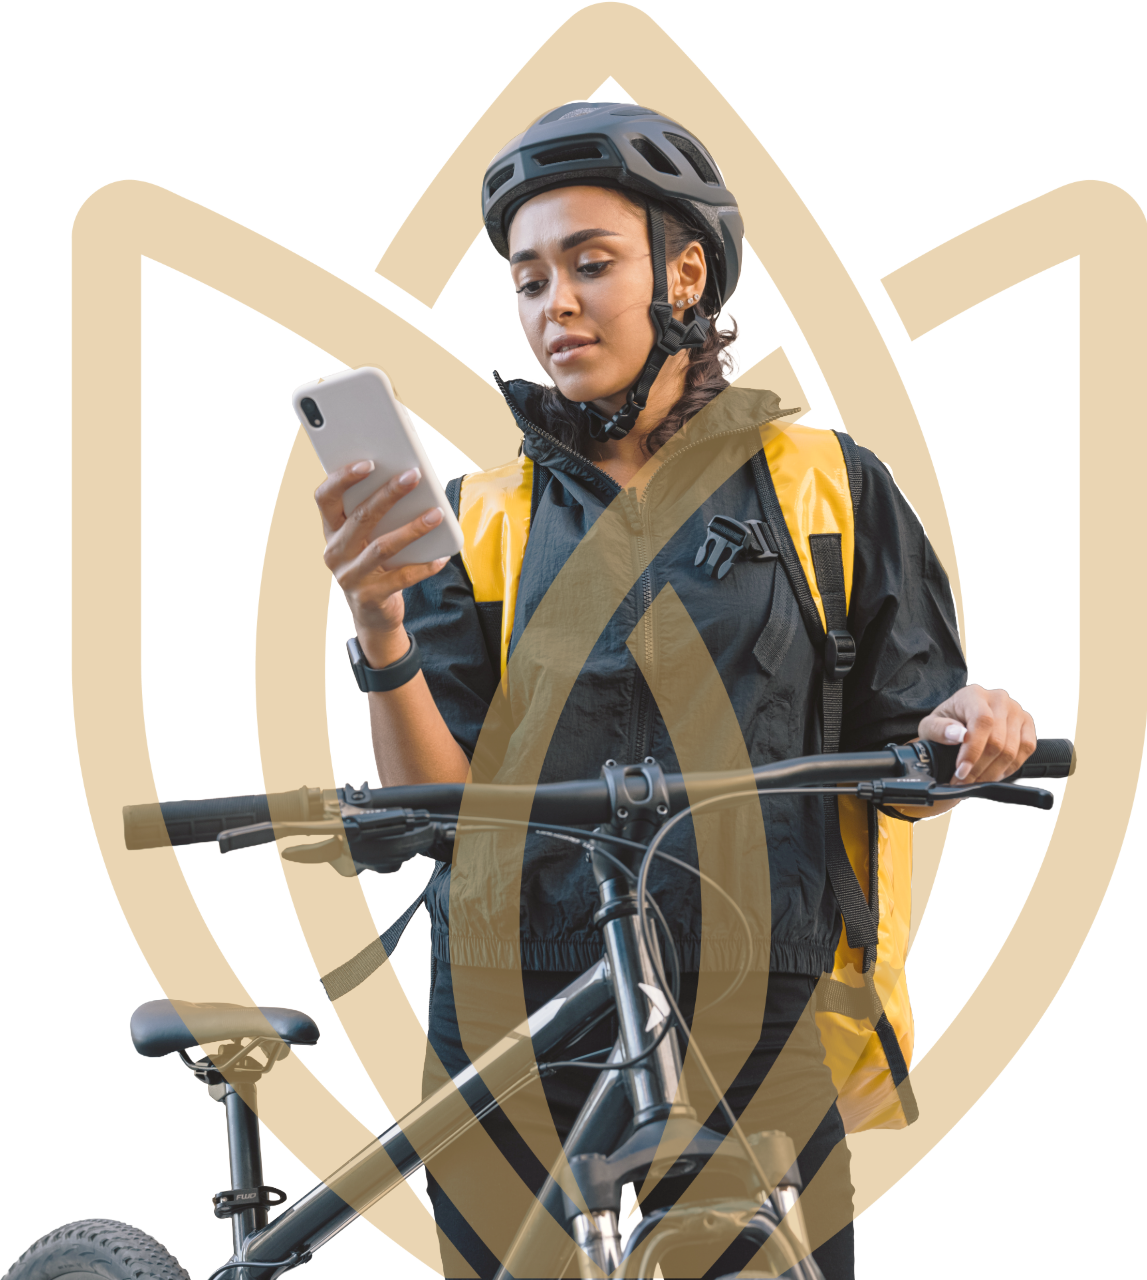
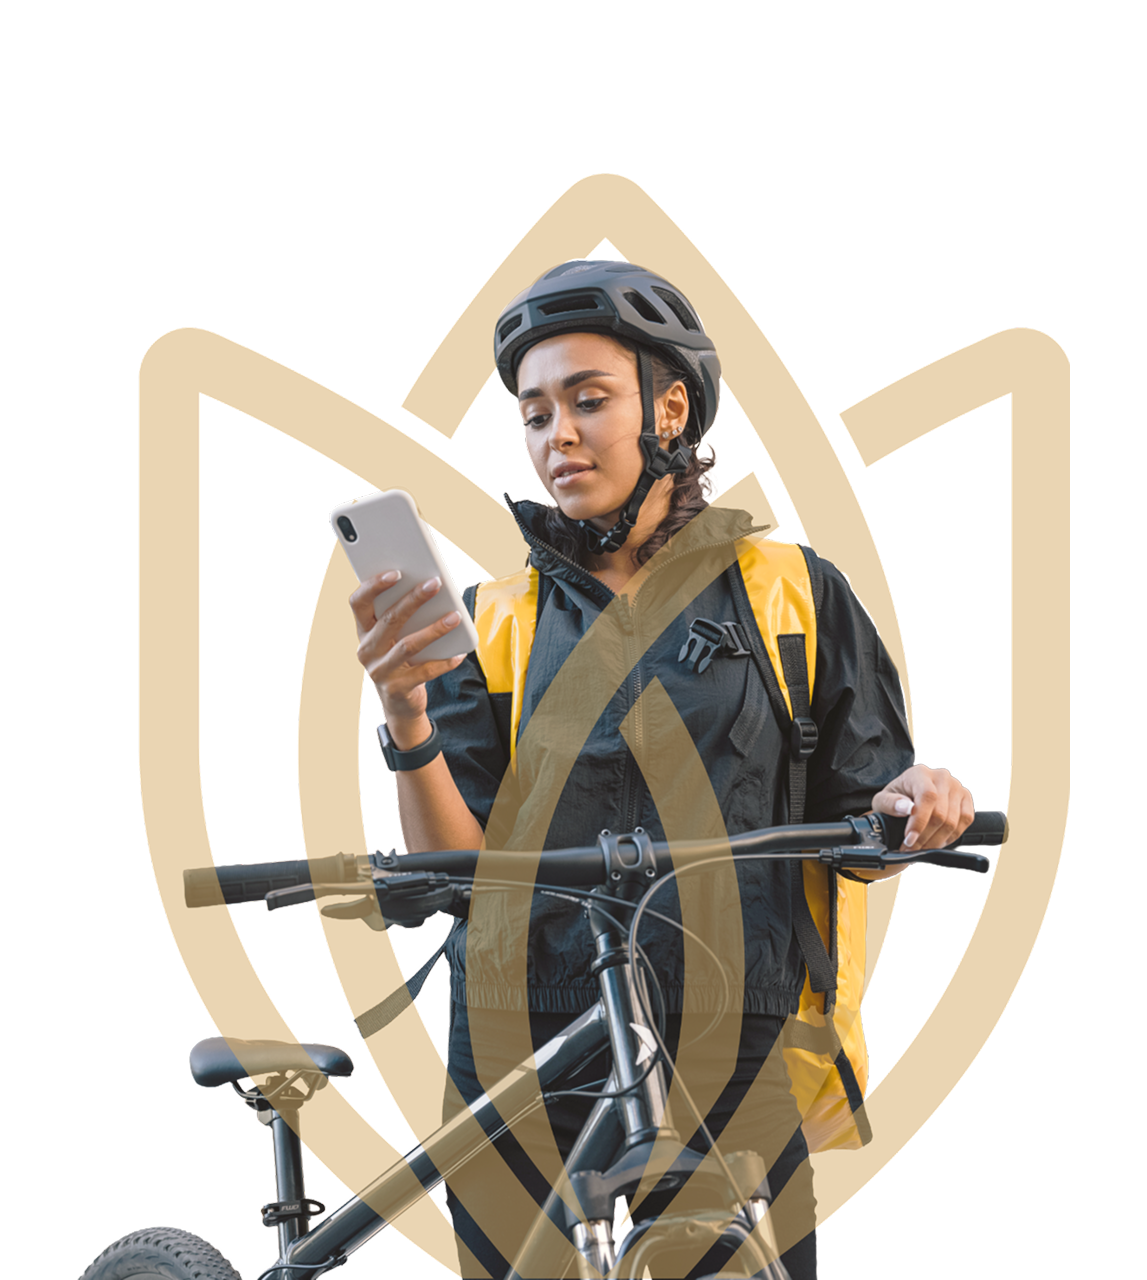
bug fixes - arrow container rotation

diff --git a/src/pages/MembersFindDoctor.tsx b/src/pages/MembersFindDoctor.tsx
@@ -227,8 +227,17 @@ export default function MembersFindDoctor() {
                   <span className="flex-1 truncate text-[15.5px] text-navy-800/50">
                     Name, specialty or ZIP code
                   </span>
-                  <span className="corner-smooth flex h-11 w-11 shrink-0 items-center justify-center rounded-[12px] bg-gold text-navy-800 transition-transform duration-300 group-hover:-rotate-45">
-                    <ArrowRight size={19} strokeWidth={2.25} />
+                  {/* The rotation is on the ARROW, not on this badge. It used to be
+                      on the span, which turned the gold square 45deg with it — the
+                      badge became a diamond on hover. Every other badged control on
+                      the site (see Button.tsx) holds the square still and spins only
+                      the glyph inside it, which is the gesture this was after. */}
+                  <span className="corner-smooth flex h-11 w-11 shrink-0 items-center justify-center rounded-[12px] bg-gold text-navy-800">
+                    <ArrowRight
+                      size={19}
+                      strokeWidth={2.25}
+                      className="transition-transform duration-300 group-hover:-rotate-45"
+                    />
                   </span>
                 </a>
 
@@ -286,66 +295,68 @@ export default function MembersFindDoctor() {
       {/* ── Tips for talking to your doctor ────────────────────────────────
           See the PLACEHOLDER note above `askPrompts`.
 
-          ── The photograph is bounded to the container's left half ────────────
-          It was `absolute inset-y-0 left-10` at `h-full w-auto`: exactly as tall
-          as the section, and as wide as its own ratio made it. Two things were
-          wrong with that, and the second is why it drifted.
+          ── The photograph is a framed plate, not a backdrop ─────────────────
+          Same treatment as the photograph in "What employers believe" on Plans →
+          Employers — `corner-smooth relative aspect-square overflow-hidden
+          rounded-card shadow-card`, which is ListBand's own frame (see
+          ListBand.tsx). Two pictures on this site are inset plates in a
+          two-column band and they should look like the same thing.
 
-          The width was derived from the SECTION'S HEIGHT — a near-square asset at
-          832px tall is 829px wide — while the copy's position was derived from a
-          centred 1360px container. So the two were measured against different
-          things: at 1440px the artwork reached 776px against a copy starting at
-          668px, a 108px overlap, and at 1920px the container moved right and the
-          overlap vanished on its own. Same code, different answer per viewport.
+          It got there from the opposite end. It used to be `absolute inset-0` with
+          `object-contain` and `mix-blend-multiply`: a decorative layer sitting
+          BEHIND the copy, sized so it could not cross the halfway line, its white
+          pixels taking the section's own ramp colour so the subject appeared to
+          float with no frame at all. Every part of that was in service of not
+          having a frame. Now that it has one, all of it comes out:
 
-          Both now live in the same `max-w-container px-6`, and the picture is
-          `w-1/2 object-contain` inside it. `contain` is what makes it safe rather
-          than just narrower: the box is half the container, and the picture is
-          scaled to FIT that box, so no section height can push the artwork across
-          the halfway line. The copy takes the other half. They cannot overlap at
-          any width, and there is no number here tuned to one viewport.
+          • `mix-blend-multiply` is GONE, and that is the change that matters. The
+            asset is flattened onto white, so multiply made its white field take
+            the ramp — which would have tinted the card's own surface and dissolved
+            the edges the radius and the shadow are there to draw. Left alone, that
+            white field simply IS the plate. (It also means this frame no longer
+            depends on the surface under it being light, which multiply did.)
+          • The absolute layer is gone with it. The picture is a real grid cell
+            now, so the guarantee that it cannot reach the copy comes from
+            `lg:grid-cols-2` rather than from arithmetic, and the section no longer
+            needs `relative overflow-hidden` to contain it — which it must not
+            have anyway, or it would clip the shadow.
 
-          ── What that costs, stated plainly ──────────────────────────────────
-          The picture is no longer the full height of the section. At 1440px the
-          box is 656 x 832 and this asset is near-square, so it renders 656 x 658
-          and `object-left` centres it vertically — about 87px of ramp above and
-          below. That is unavoidable: a square picture at the section's full height
-          would be as wide as the section is tall, and there is no arrangement
-          where a 830px picture and a readable question list both fit inside 1312px
-          without one crossing the other. Height was the thing to give up.
+          ── What `object-cover` costs here, stated plainly ───────────────────
+          ListBand's asset is a full-bleed photograph; this one is a cutout subject
+          on white with the lotus behind it and its own wide margins. So the plate
+          reads as a white card with a figure in it rather than as a photograph
+          filling a frame, and `cover` into a square trims 8% off each side of a
+          1114 x 933 asset — which eats white margin only: the artwork itself spans
+          11.2%..88.8%, so the petals stay whole. Both of those are why the frame
+          is `aspect-square` rather than the 4:3 ListBand uses below `lg`: square
+          is the ratio closest to the asset's own, so it crops least.
 
-          The left margin comes from the layout rather than an offset: the
-          container's own `px-6` plus the asset's internal 11.2%, which puts the
-          artwork about 137px in from the window edge at 1440px — where the
-          explicit `left-10` used to put it.
-
-          ── Why it can still sit on the ramp with no mask ─────────────────────
-          The asset is a photograph FLATTENED ONTO WHITE, and `mix-blend-multiply`
-          turns every white pixel into the section's own colour exactly — soft
-          edges included — so it needs no mask and no frame. Multiply only works
-          while the surface is LIGHT: this one ramps #CCD0D2 → white, so it holds.
-          On navy the photograph would go black. The copy container is `relative`
-          so it stacks above the absolutely positioned picture.
-
-          `lg` and up only. Below that the picture is dropped, which is where it
-          started: behind a single column it sits behind the questions, and the
-          questions are the one thing on this page that has to stay legible. */}
-      <section className="relative overflow-hidden bg-gradient-to-b from-[#CCD0D2] to-white">
-        <div
-          aria-hidden="true"
-          className="pointer-events-none absolute inset-0 hidden select-none lg:block"
-        >
-          <div className="mx-auto h-full max-w-container px-6">
-            <img
-              src={images.doctorTipsPortrait}
-              alt=""
-              className="h-full w-1/2 select-none object-contain object-left mix-blend-multiply"
-            />
+          `lg` and up only, as before. Below that the picture is dropped rather
+          than stacked above the copy — the questions are the one thing on this
+          page that has to stay legible, and nothing here competes with them. */}
+      <section className="bg-gradient-to-b from-[#CCD0D2] to-white">
+        {/* 0.9 / 1.1, not two equal halves. The copy column carries the
+              three-across "worth bringing" row at the bottom, and that row is
+              drawn with its labels wrapping to TWO lines — see the note on
+              `bringWithYou` below. An even split gives the copy 624px here, which
+              is 32px less than the `lg:w-1/2` it had when the picture was an
+              absolute layer, and those 32px are exactly what tips "Your full
+              medical history" onto a third line. Weighting the split gives the
+              copy ~690px, comfortably clear of that, and the plate is still a
+              565px square. Whichever way this is tuned, the copy is the side that
+              has a measurement to satisfy. */}
+        <div className="mx-auto grid max-w-container items-center gap-12 px-6 py-24 sm:py-28 lg:grid-cols-[minmax(0,0.9fr)_minmax(0,1.1fr)] lg:gap-14">
+          <div aria-hidden="true" className="hidden select-none lg:block">
+            <div className="corner-smooth relative aspect-square overflow-hidden rounded-card shadow-card">
+              <img
+                src={images.doctorTipsPortrait}
+                alt=""
+                className="absolute inset-0 h-full w-full select-none object-cover object-center"
+              />
+            </div>
           </div>
-        </div>
 
-        <div className="relative mx-auto max-w-container px-6 py-24 sm:py-28">
-          <div className="lg:ml-auto lg:w-1/2">
+          <div>
             <span className="inline-block rounded-full bg-navy-800/5 px-4 py-1.5 text-[11px] font-semibold tracking-[0.14em] text-navy-800/70">
               BEFORE YOU GO IN
             </span>

diff --git a/src/components/Button.tsx b/src/components/Button.tsx
@@ -61,17 +61,28 @@ const baseColors: Record<NonNullable<ButtonProps['variant']>, string> = {
     'bg-transparent text-navy-800 ring-1 ring-inset ring-navy-800/20 hover:bg-navy-800 hover:text-white hover:ring-navy-800',
 }
 
-// badge = the little circle the icon sits in on primary-style buttons.
-// "light" and "white" keep a gold badge in both states (it reads fine on either
-// fill, and on the navy the button flips to).
-// "gold" starts navy (so it doesn't disappear into the gold button) and
-// flips to gold on hover, once the button itself has gone navy.
-// "dark" is the mirror of "gold": white on the navy fill, going gold on hover.
+// badge = the little square the icon sits in on primary-style buttons.
+//
+// Three of the four are GOLD in both states — "light", "white" and now "dark".
+// Gold reads on a white fill, on a navy fill, and on the navy every one of them
+// flips to, so there is no state where it needs to change to stay visible.
+//
+// "dark" used to start WHITE and go gold on hover, as the mirror of "gold"'s
+// navy-then-gold. That made the About hero's primary button a navy pill with a
+// white square in it, which read as a gap in the button rather than as a badge —
+// and it made "dark" the only always-navy variant whose badge was not the brand
+// colour. It is gold from the start now, matching "light" and "white". The hover
+// gesture is untouched and is the same one those two make: the badge crosses to
+// the leading edge, the arrow spins -45deg, the button scales.
+//
+// "gold" is the one that still has to change, and for a reason the others don't
+// share: a gold badge on a gold button is a shape with no edges. It starts navy
+// and goes gold once the button itself has gone navy.
 const badgeColors: Record<string, string> = {
   light: 'bg-gold text-navy-800',
   white: 'bg-gold text-navy-800',
   gold: 'bg-navy-800 text-white group-hover:bg-gold group-hover:text-navy-800',
-  dark: 'bg-white text-navy-800 group-hover:bg-gold group-hover:text-navy-800',
+  dark: 'bg-gold text-navy-800',
 }
 
 export default function Button({
